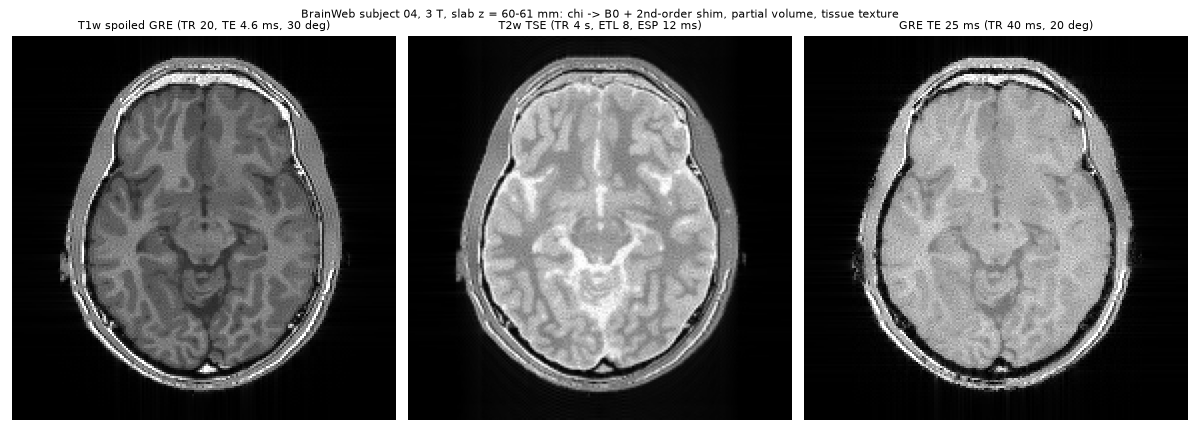
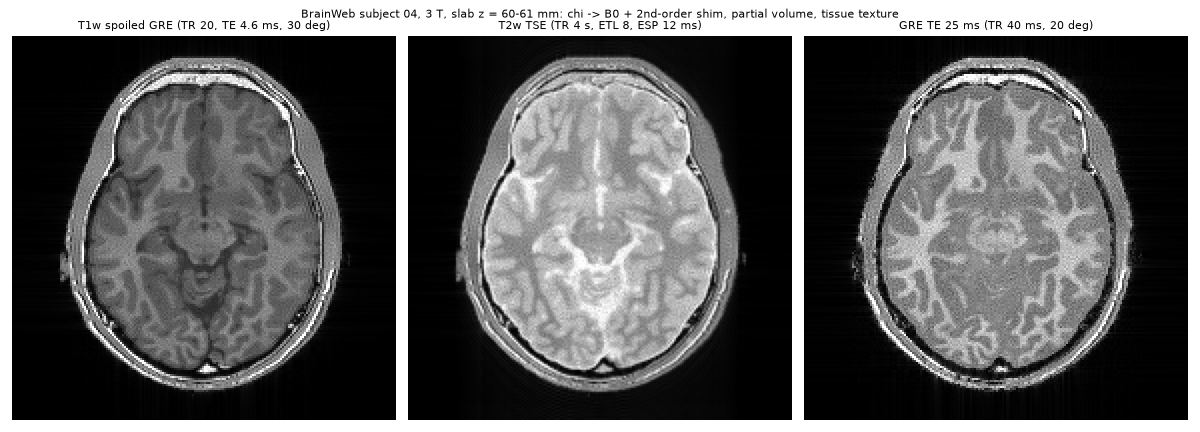
T2* from measured R2* without double counting
estimate_macroscopic_r2prime turns the simulated field's voxel-scale gradient into the rate
a multi-echo R2* fit would see at the measurement's voxel size and echo times; with chi on,
to_phantom now puts only R2' = max(R2* - R2 - macro, 0) on the spins (was: R2' dropped).
Round trip 20.66 /s in -> 20.73 / 20.66 out (double counted 22.5 / 25.5, dropped 16.4 /
19.4). AHEAD measured R2* contrast now appears by default. Follow-up recorded: occipital
WM/GM T2* proxies make cortex dark at long TE.

diff --git a/src/blochparty/anatomy.py b/src/blochparty/anatomy.py
@@ -617,6 +617,39 @@ def anatomy_field_maps(anatomy, table=DEFAULT_TISSUES, field_T=3., *, shim_order
     return FieldMaps(*args,b0=df),FieldMaps(*args,b0=correction)
 
 
+# The R2* measurement a T2* value or map came from (voxel (dz, dy, dx) [m], echo times [s]):
+# the macroscopic part of its decay is estimated at these, not at the simulation grid.
+# Default (table values whose protocols are not encoded): an assumption, 1 mm, 8 echoes 5-40 ms.
+DEFAULT_R2STAR_ACQUISITION = {"voxel": (1e-3, 1e-3, 1e-3), "te": tuple(5e-3 * k for k in range(1, 9))}
+# AHEAD (MP2RAGEME, Caan et al. 2019: second-inversion echoes 3 / 11.5 / 19 / 27.5 ms). Voxel 0.64 mm:
+# the commonly cited AHEAD resolution; the papers say "submillimetre" (unverified here).
+AHEAD_R2STAR_ACQUISITION = {"voxel": (.64e-3, .64e-3, .64e-3), "te": (3e-3, 11.5e-3, 19e-3, 27.5e-3)}
+
+
+def estimate_macroscopic_r2prime(df: Tensor, voxel, acquisition=None) -> Tensor:
+    """The part of a measured R2* that the voxel-scale field ``df`` [Hz] on a (z, y, x) grid of
+    spacing ``voxel`` [m] causes by itself [1/s]: each axis's linear gradient g [Hz/m] dephases a
+    box voxel of the acquisition's size d as |sinc(g d t)| (independent axes multiply), and a
+    log-linear magnitude fit over the acquisition's echo times turns that into a rate, as a
+    multi-echo R2* fit would (Fernandez-Seara & Wehrli, MRM 2000; Yablonskiy, MRM 1998). Gradients
+    are central differences on the grid; |sinc| is floored at 1e-3. Fields resolved finer than the
+    grid, and curvature within the voxel, are not included. Where this alone exceeds the measured
+    R2* - R2 (a field too strong for the stated acquisition), ``to_phantom`` clips R2' at 0."""
+    acq = DEFAULT_R2STAR_ACQUISITION if acquisition is None else acquisition
+    te = torch.as_tensor(acq["te"], dtype=df.dtype)
+    if te.ndim != 1 or len(te) < 2 or (te <= 0).any():
+        raise ValueError("acquisition needs two or more positive echo times")
+    d = _triple(acq["voxel"], "acquisition voxel", True)
+    grads = [torch.gradient(df, spacing=float(h), dim=ax)[0] if df.shape[ax] > 1 else torch.zeros_like(df)
+             for ax, h in enumerate(voxel)]  # a single-voxel axis has no resolved gradient
+    tc = te - te.mean()
+    num = torch.zeros_like(df)
+    for k in range(len(te)):  # sum_k tc_k ln F(t_k), one echo at a time (memory)
+        lnf = sum(torch.sinc(g * di * te[k]).abs().clamp_min(1e-3).log() for g, di in zip(grads, d))
+        num = num + tc[k] * lnf
+    return (-num / tc.square().sum()).clamp_min(0)
+
+
 _VARIABLE = ("t1", "t2", "pd")
 
 
@@ -674,7 +707,7 @@ def to_phantom(anatomy: Anatomy, table=DEFAULT_TISSUES, field_T=3., *, fov_regio
                spins_per_voxel=8, jitter="stratified", seed=0, sampling="per_tissue",
                mt=False, diffusion=False, chi_to_b0=True, shim_order=2,
                t2star="auto", macroscopic_r2prime=None, field_maps=None,
-               variability=None) -> Phantom:
+               variability=None, r2star_acquisition=None) -> Phantom:
     """Assemble independent tissue spins, never average their relaxation constants.
 
     ``per_tissue`` gives K spins to each nonzero tissue/voxel, PD=fraction*PD/K
@@ -686,9 +719,14 @@ def to_phantom(anatomy: Anatomy, table=DEFAULT_TISSUES, field_T=3., *, fov_regio
     PD is per anatomy voxel, matching phantom_from_maps; multiply by physical
     voxel volume when comparing absolute signals across anatomy resolutions.
 
-    ``t2star='auto'`` uses observed T2* only if chi_to_b0=False; with chi fields
-    it omits uncalibrated R2' (a conservative lower bound, not a complete T2*
-    model). ``'table'`` uses R2*=map R2star or tissue table, subtracts R2, and
+    ``t2star='auto'`` (default): with chi fields, ``'separate'``; without, R2' = R2* - R2.
+    ``'separate'``: a measured R2* (map R2star or table T2*) contains R2, microscopic R2'
+    and the dephasing from the voxel-scale field this simulation computes itself; the last is
+    estimated by ``estimate_macroscopic_r2prime`` from the field (tissue + shim) at the voxel size and
+    echo times of the R2* measurement (``r2star_acquisition``, default
+    ``DEFAULT_R2STAR_ACQUISITION``; ``AHEAD_R2STAR_ACQUISITION`` for ``load_ahead``) and
+    subtracted: R2' = max(R2* - R2 - R2'_macro, 0) goes onto the spins, and the simulated field
+    supplies the rest. ``'table'`` uses R2*=map R2star or tissue table, subtracts R2, and
     REQUIRES ``macroscopic_r2prime`` [1/s] when chi is enabled. This is a supplied
     calibration, not a universal linewidth inferred from field gradients.
     Alternatively maps['intrinsic_r2prime'] supplies already separated R2'.
@@ -721,8 +759,12 @@ def to_phantom(anatomy: Anatomy, table=DEFAULT_TISSUES, field_T=3., *, fov_regio
     """
     if sampling not in ("per_tissue","categorical") or jitter not in (None,"stratified"):
         raise ValueError("invalid sampling or jitter mode")
-    if t2star not in ("auto","off","table"):
-        raise ValueError("t2star must be auto, off or table")
+    if t2star not in ("auto","off","table","separate"):
+        raise ValueError("t2star must be auto, separate, off or table")
+    if t2star == "auto":
+        t2star = "separate" if chi_to_b0 else "table"
+    if t2star == "separate" and not chi_to_b0:
+        raise ValueError("t2star='separate' needs chi_to_b0 (the field it separates)")
     if anatomy.map_field_T is not None and field_T != anatomy.map_field_T:
         raise ValueError(f"relaxation maps were acquired at {anatomy.map_field_T} T; no automatic field scaling")
     counts = _subvoxel_counts(spins_per_voxel,3)
@@ -745,9 +787,16 @@ def to_phantom(anatomy: Anatomy, table=DEFAULT_TISSUES, field_T=3., *, fov_regio
     if variability:  # on the full anatomy, so crops and slabs share one realisation
         live = [n for n, p in props.items() if n in anatomy.fractions and p.pd.mean > 0]
         factors = _variability_factors(anatomy, live, variability)
+    macro_est = None
+    if t2star == "separate" and "intrinsic_r2prime" not in anatomy.maps and macroscopic_r2prime is None:
+        if any(tuple(fm.b0.shape) != anatomy.shape for fm in maps_pair):
+            raise ValueError("t2star='separate' needs field maps on the anatomy grid (anatomy_field_maps)")
+        macro_est = estimate_macroscopic_r2prime(sum(fm.b0.to(torch.float64) for fm in maps_pair), anatomy.voxel,
+                                        r2star_acquisition)
     if fov_region is not None:
         anatomy = anatomy.crop(fov_region)
         factors = {key: value[fov_region] for key, value in factors.items()}
+        macro_est = None if macro_est is None else macro_est[fov_region]
     ref = next(iter(anatomy.fractions.values()))
     gen = torch.Generator().manual_seed(seed)
     qgen = torch.Generator().manual_seed(0)
@@ -814,9 +863,12 @@ def to_phantom(anatomy: Anatomy, table=DEFAULT_TISSUES, field_T=3., *, fov_regio
             rate = None
             if "intrinsic_r2prime" in anatomy.maps:
                 rate = anatomy.maps["intrinsic_r2prime"][mask]
-            elif t2star == "table" or not chi_to_b0:
+            elif t2star in ("table", "separate"):
                 rstar = parameter("R2star",1/p.t2star.mean if p.t2star else 1/p.t2.mean)
-                rate = rstar-r2_base-(macro[mask] if isinstance(macro,Tensor) and macro.ndim else macro)
+                if macro_est is not None:  # an estimate: clip, a mismatch is not an inconsistent calibration
+                    rate = (rstar-r2_base-macro_est[mask].to(rstar.dtype)).clamp_min(0)
+                else:
+                    rate = rstar-r2_base-(macro[mask] if isinstance(macro,Tensor) and macro.ndim else macro)
             if rate is not None:
                 if (rate < -1e-6).any():
                     raise ValueError("R2* - R2 - macroscopic R2' is negative; incompatible calibration")

diff --git a/tests/test_anatomy.py b/tests/test_anatomy.py
@@ -158,8 +158,11 @@ def test_t2prime_quantile_fid_and_no_double_count():
     with pytest.raises(ValueError,match="calibration"):
         to_phantom(a,chi_to_b0=True,shim_order=None,t2star="table")
     pair = (bp.FieldMaps((0,0,0),(.001,)*3,b0=torch.zeros(1,1,1,dtype=torch.float64)),)*2
-    no_micro = to_phantom(a,field_maps=pair)
-    assert not no_micro.db0.any()
+    assert not to_phantom(a,field_maps=pair,t2star="off").db0.any()
+    # a flat field has no macroscopic part: 'auto' (= 'separate') puts the whole R2* - R2 on the spins
+    sep = to_phantom(a,field_maps=pair,spins_per_voxel=(1,1,64))
+    full = to_phantom(a,chi_to_b0=False,spins_per_voxel=(1,1,64),t2star="table")
+    assert torch.allclose(sep.db0,full.db0)
     a.maps["intrinsic_r2prime"] = torch.full((1,1,1),8.,dtype=torch.float64)
     micro = to_phantom(a,field_maps=pair)
     assert micro.db0.abs().max() > 0
@@ -299,3 +302,38 @@ def test_float64_resampling_keeps_fractions_valid():
         for k in a.fractions:
             assert float(r.fractions[k].sum()) * math.prod(voxel) == pytest.approx(
                 float(a.fractions[k].sum()) * .0005**3, rel=1e-6)
+
+
+@pytest.mark.parametrize("grad_hz_per_mm", [5.0, 8.0, 15.0])
+def test_measured_r2star_round_trip_without_double_counting(grad_hz_per_mm):
+    # A tissue whose table T2* came from a 1 mm, 5-40 ms multi-echo fit, in a voxel-scale field
+    # gradient: the assembled phantom (microscopic R2' on the spins + the field at their positions)
+    # must give back that measured R2* when "acquired" the same way. Without the separation the
+    # field is counted twice ('table' with no macroscopic term); dropping R2' ('off') undercounts.
+    from blochparty.anatomy import DEFAULT_R2STAR_ACQUISITION, estimate_macroscopic_r2prime
+    g = grad_hz_per_mm * 1e3  # Hz/m along x
+    a = Anatomy({"wm": torch.ones(3, 3, 3, dtype=torch.float64)}, (.001,)*3, (-.001, -.001, -.001))
+    x = torch.arange(3, dtype=torch.float64)[None, None, :].expand(3, 3, 3) * .001 - .001
+    pair = (bp.FieldMaps(a.origin, (.001,)*3, b0=g * x), bp.FieldMaps(a.origin, (.001,)*3, b0=torch.zeros(3, 3, 3, dtype=torch.float64)))
+    te = torch.tensor(DEFAULT_R2STAR_ACQUISITION["te"], dtype=torch.float64)
+    est = estimate_macroscopic_r2prime(pair[0].b0, a.voxel)
+    r2s_in = 1 / DEFAULT_TISSUES[3]["wm"].t2star.mean
+
+    def measured(t2star, **kw):
+        ph = to_phantom(a, field_maps=pair, spins_per_voxel=(1, 1, 8192), t2star=t2star,
+                        fov_region=(slice(1, 2),)*3, **kw)
+        sig = torch.exp(-te[:, None] / ph.t2 - 2j * math.pi * te[:, None] * ph.db0) @ ph.pd.to(torch.complex128)
+        y = sig.abs().log()
+        tc = te - te.mean()
+        return float(-(tc * (y - y.mean())).sum() / tc.square().sum())
+
+    sinc_rate = float(-(torch.sinc(g * .001 * te).abs().log() * (te - te.mean())).sum() / (te - te.mean()).square().sum())
+    assert float(est[1, 1, 1]) == pytest.approx(sinc_rate, rel=1e-9)  # the estimator is the closed form
+    out = measured("auto")
+    r2 = 1 / DEFAULT_TISSUES[3]["wm"].t2.mean
+    if sinc_rate < r2s_in - r2:  # consistent: 1.9 and 4.9 /s of the 6.2 /s R2* - R2
+        assert out == pytest.approx(r2s_in, rel=0.02), (out, r2s_in)
+        assert measured("table", macroscopic_r2prime=0.0) > r2s_in + 0.5 * sinc_rate  # double counted
+        assert measured("off") < r2s_in - 1.0  # microscopic R2' lost
+    else:  # 15 Hz/mm alone dephases faster (19 /s) than the measured R2*: R2' clips at 0
+        assert out == pytest.approx(measured("off"), rel=1e-12) and out > r2s_in

diff --git a/validation/anatomy_ahead.py b/validation/anatomy_ahead.py
@@ -9,8 +9,8 @@ Checks (printed; recorded in validation/anatomy/RESULTS.md):
   tenths of a ppm positive (iron), which fixes ppm against ppb.
 * geometry: the brain centroid in MNI2009b coordinates and the MNI origin inside the brain.
 * a 7 T spoiled GRE of an axial slab through the basal ganglia from the measured R1 / R2* /
-  relative PD maps, with the QSM-derived field (brain only, relative); T2 an explicit assumption and
-  R2' = R2* - R2 (32 Cauchy-quantile spins per voxel).
+  relative PD maps, with the QSM-derived field (brain only, relative); T2 an explicit assumption; the
+  default T2* policy separates microscopic R2' from the field's own dephasing (32 spins per voxel).
 
     uv run python validation/anatomy/fetch_ahead.py && uv run python validation/anatomy_ahead.py
 """
@@ -24,7 +24,7 @@ import numpy as np
 import torch
 
 import blochparty as bp
-from blochparty.anatomy import Distribution, TissueProperties
+from blochparty.anatomy import AHEAD_R2STAR_ACQUISITION, Distribution, TissueProperties
 
 ROOT = Path(__file__).resolve().parent / "anatomy" / "data" / "ahead"
 
@@ -70,9 +70,14 @@ def main():
                                             t2=Distribution(0.05, None, note, True),
                                             chi=Distribution(0.0, None, "Assumption: QSM map used", True))}}
     k0 = int(round((0 - a.origin[2]) / a.voxel[0]))
-    # R2' = R2* - R2 from the measured R2* map and the assumed T2 (clamped at 0 where R2* < R2,
-    # e.g. CSF). Assumption: the brain-only QSM field adds little macroscopic dephasing on top.
-    a.maps["intrinsic_r2prime"] = torch.where(m, (a.maps["R2star"] - 1 / 0.05).clamp_min(0), 0.0)
+    # the default T2* policy separates the measured R2* into R2 (assumed T2), the macroscopic part
+    # the QSM field causes at AHEAD's acquisition (0.64 mm, TE 3-27.5 ms), and microscopic R2'
+    fields = bp.anatomy_field_maps(a, table, 7.0, shim_order=2)
+    macro = bp.estimate_macroscopic_r2prime(sum(fm.b0.double() for fm in fields), a.voxel,
+                                            AHEAD_R2STAR_ACQUISITION)[m].numpy()
+    total = (a.maps["R2star"][m] - 1 / 0.05).clamp_min(0).numpy()
+    print(f"macroscopic part of R2* - R2 at the AHEAD acquisition: median {np.median(macro):.2f} /s, 99th "
+          f"percentile {np.percentile(macro, 99):.1f} /s (R2* - R2 median {np.median(total):.1f} /s)")
     import matplotlib
 
     matplotlib.use("Agg")
@@ -83,7 +88,8 @@ def main():
     ax[0].set_title("AHEAD QSM [ppm], z = 0 (MNI)")
     for j, (te, label) in enumerate(((5e-3, "TE 5 ms"), (20e-3, "TE 20 ms"))):
         ph = bp.to_phantom(a, table, 7.0, fov_region=(slice(k0, k0 + 2), slice(None), slice(None)),
-                           spins_per_voxel=(2, 4, 4), shim_order=2)
+                           spins_per_voxel=(2, 4, 4), shim_order=2, field_maps=fields,
+                           r2star_acquisition=AHEAD_R2STAR_ACQUISITION)
         ph.pos = ph.pos - ph.pos.mean(0)
         seq = bp.gre_2d(192, 0.24, flip_deg=15.0, tr=30e-3, te=te, n_dummy=40)
         try:

diff --git a/src/blochparty/__init__.py b/src/blochparty/__init__.py
@@ -2,7 +2,7 @@
 
 from . import design, epg, exchange, fused, reference
 from .anatomy import (Anatomy, BRAINWEB_TISSUES, DEFAULT_TISSUES, Distribution, TissueProperties,
-                      anatomy_field_maps, gaussian_random_field, load_ahead, load_brainweb, load_qsm2,
+                      anatomy_field_maps, gaussian_random_field, load_ahead, estimate_macroscopic_r2prime, load_brainweb, load_qsm2,
                       to_phantom)
 from .bloch import SimResult, simulate
 from .builders import (bssfp_2d, cartesian_kspace, cartesian_recon, epi_2d, gre_2d, gre_3d, gre_cartesian,
@@ -23,7 +23,7 @@ from .susceptibility import shim, susceptibility_to_b0
 
 __all__ = [
     "Anatomy", "BRAINWEB_TISSUES", "DEFAULT_TISSUES", "Distribution", "TissueProperties",
-    "anatomy_field_maps", "gaussian_random_field", "load_ahead", "load_brainweb", "load_qsm2", "to_phantom",
+    "anatomy_field_maps", "gaussian_random_field", "load_ahead", "estimate_macroscopic_r2prime", "load_brainweb", "load_qsm2", "to_phantom",
     "GAMMA_BAR", "BoundPool", "ExchangePool", "FieldMaps", "Motion", "Phantom", "Restriction", "Sequence", "SequenceBuilder", "SimResult", "System", "add_noise", "b0_cylinder",
     "b0_shim", "b0_sphere", "birdcage_b1", "birdcage_sensitivities", "block_pulse", "bssfp_2d",
     "cartesian_kspace", "cartesian_recon", "coil_combine", "design", "epg", "epi_2d", "exchange", "fused",

diff --git a/validation/anatomy/RESULTS.md b/validation/anatomy/RESULTS.md
@@ -171,3 +171,26 @@ BrainWeb subject 04, 3 T, 2 mm axial slab (z = 60-61 mm), full-head chi -> B0 (-
 +479 Hz) with 2nd-order shim, 8 spins per tissue and voxel (1,859,776 spins), texture 5 / 5 / 2 %
 at 1 cm. Apple M4 GPU: setup 16.4 s, T1w spoiled GRE 7.7 s, T2w TSE (ETL 8, ESP 12 ms) 11.4 s,
 long-TE GRE 8.2 s; 44.2 s in total.
+
+## T2* from measured R2* without double counting (2026-10-07)
+
+`tests/test_anatomy.py::test_measured_r2star_round_trip_without_double_counting`: a WM voxel
+(table T2* 48.4 ms, R2* 20.66 /s) in a linear field gradient, "acquired" as its T2* was (1 mm,
+8 echoes 5-40 ms, log-linear magnitude fit) with 8192 spins:
+
+| gradient | separated (default) | field counted twice ('table', no macro term) | R2' dropped (old default) |
+|---|---:|---:|---:|
+| 5 Hz/mm (macro 1.9 /s) | 20.73 /s | 22.52 /s | 16.37 /s |
+| 8 Hz/mm (macro 4.9 /s) | 20.66 /s | 25.54 /s | 19.39 /s |
+
+At 15 Hz/mm the field alone (19 /s) exceeds R2* - R2 (6.2 /s): R2' clips at 0, as documented.
+The estimator equals the closed-form sinc fit to 1e-9. BrainWeb, 3 T, 1 mm: the macroscopic part
+inside the brain is small except near air (median 0.07, 90th 0.41, 99th percentile 3.1 /s, max
+255 /s); 0.38 % of brain voxels clip. AHEAD (brain-only relative QSM, 0.64 mm, 3-27.5 ms): median
+0.00, 99th percentile 0.1 /s, so the measured R2* contrast now appears without manual R2' (figure
+above, regenerated).
+
+Known issue (flagged in the table, follow-up on the roadmap): the 3 T WM/GM T2* proxies are
+occipital values (Wansapura 1999: GM 41.6 < WM 48.4 ms), so long-TE GRE now shows cortex darker
+than white matter; whole-brain cortical T2* is reported longer than WM (Hoogenraad/Peters et al.
+2007, values not yet verified from the paper).

diff --git a/ROADMAP.md b/ROADMAP.md
@@ -478,7 +478,7 @@ by Pulseq's own checks.
 - [x] Anatomy M4: within-tissue texture (`variability`), statistics tested.
 - [x] Anatomy M5: `examples/anatomy_brain.py` (3 T BrainWeb: T1w GRE, T2w TSE, long-TE GRE) and
       `validation/anatomy_ahead.py` (7 T measured maps).
-- [ ] **T2* from measured R2* without double counting** (next physics item): a measured R2*
+- [x] **T2* from measured R2* without double counting** (2026-10-07; `t2star="separate"`, the default with chi): a measured R2*
       contains the macroscopic dephasing from the voxel-scale susceptibility field that the
       simulation now computes itself, plus microscopic R2' (vessels, myelin, iron) that it
       does not. Today `t2star="auto"` drops R2' when chi is on, so measured R2* contrast vanishes
@@ -487,6 +487,9 @@ by Pulseq's own checks.
       Yablonskiy/Fernandez-Seara) at the acquisition's voxel size and TE range, subtract it to
       get microscopic R2' per voxel, and make that the default; check against a multi-echo GRE
       of the same anatomy (simulated R2* fit vs the input map) and the static-dephasing limit.
+      Done: round trip within 0.3 % (vs +9 to +24 % double counted, -6 to -21 % dropped).
+- [ ] 3 T WM/GM T2* in the tissue table: replace the occipital Wansapura proxies (GM < WM) with
+      whole-brain values (Hoogenraad/Peters 2007 reports cortical GM longer than WM; verify numbers).
 - [ ] Further realistic phantoms: XCAT / MRXCAT; random augmentations
       (generative plan: [docs/PHANTOMS.md](docs/PHANTOMS.md))
 - [ ] Raw k-space from reconstructed scans ("lift", PHANTOMS §5), validated on paired raw/DICOM data

diff --git a/validation/anatomy/README.md b/validation/anatomy/README.md
@@ -127,12 +127,14 @@ dark. The 1.5 T CSF T2 is the 3 T value, flagged.
 `BRAINWEB_TISSUES` separately preserves the older simulator's 1.5 T relaxation
 priors for reference comparisons. Existing `phantom.TISSUES` is untouched.
 
-Observed T2* may include macroscopic dephasing. Default `t2star="auto"` adds table
-T2′ only when susceptibility is disabled. With susceptibility enabled it omits
-uncalibrated microscopic broadening; this is a lower-bound model, not complete T2*.
-`t2star="table"` plus susceptibility requires a supplied `macroscopic_r2prime`
-calibration in 1/s. Alternatively supply `maps["intrinsic_r2prime"]` with an already
-separated rate. No universal subtraction is inferred from a spatial gradient.
+A measured T2* (map or table) contains R2, microscopic R2' (vessels, myelin, iron) and the
+dephasing that the voxel-scale field causes, which the simulation computes itself from chi. The
+default `t2star="auto"` (= `"separate"` with chi on) estimates that last part from the simulated
+field's gradient at the voxel size and echo times of the R2* measurement
+(`estimate_macroscopic_r2prime`; `r2star_acquisition`, default 1 mm and 5-40 ms, an assumption for
+table values; `AHEAD_R2STAR_ACQUISITION` for AHEAD) and puts only R2' = max(R2* - R2 - macro, 0) on
+the spins. Without chi, R2' = R2* - R2. `t2star="table"` with chi still accepts a supplied
+`macroscopic_r2prime`, and `maps["intrinsic_r2prime"]` an already separated rate.
 `t2star="off"` disables that broadening. Cauchy quantiles need many spins to resolve
 an FID; K=1 has only the zero median and emits a warning for finite requested T2′.
 

diff --git a/docs/JOURNAL.md b/docs/JOURNAL.md
@@ -663,3 +663,16 @@ entries at the bottom. Hard-won technical lessons are distilled separately in
   one" (cumulative-sum rounding ~1e-14 vs a 3.6e-15 check). Renormalisation after resampling;
   regression test reproduces 1.2e-14 / 2.9e-14 overshoot without it.
 - Roadmap: T2* from measured R2* without double counting, as the next physics item.
+
+## 2026-10-07 — T2* from measured R2* without double counting
+
+- `estimate_macroscopic_r2prime`: per-voxel |sinc(g d t)| from the simulated field's gradient at
+  the R2* measurement's voxel size, log-linear fit over its echo times; `to_phantom(t2star="auto")`
+  now separates R2' = max(R2* - R2 - macro, 0) when chi is on (was: R2' dropped). Defaults for
+  table values 1 mm / 5-40 ms (assumption); AHEAD 0.64 mm / 3-27.5 ms (Caan 2019 TEs).
+- Round trip: 20.66 /s in, 20.73 / 20.66 out at 5 / 8 Hz/mm; double counted 22.52 / 25.54, dropped
+  16.37 / 19.39. Inconsistent case (15 Hz/mm) clips by design. Fixed along the way: a function name
+  shadowed by the existing `macroscopic_r2prime` argument; single-voxel axes in the gradient.
+- AHEAD: macroscopic part ~0 (brain-only QSM), so measured R2* contrast now appears by default.
+  BrainWeb: small except near air (99th pct 3.1 /s). New visible issue: cortex darker than WM at
+  long TE from the occipital T2* proxies; roadmap follow-up.

diff --git a/docs/LESSONS.md b/docs/LESSONS.md
@@ -311,6 +311,13 @@ says where it came from so it can be re-checked.
   per class, so BrainWeb at 1.5 mm in float64 raised "fractions sum to more than one" (float32
   hid it: its tolerance is 2e-6). Renormalise by max(total, 1) after resampling.
 
+- **A measured T2* is not an intrinsic property once the simulation computes fields**: it
+  includes the macroscopic dephasing at the measurement's voxel size and echo times. Separating it
+  needs those acquisition parameters (AHEAD: MP2RAGEME, TE 3/11.5/19/27.5 ms); the round trip
+  (simulate the acquisition, fit R2*, compare with the input) is the test, and a field strong
+  enough to exceed R2* - R2 on its own means the inputs disagree (clip, do not error). Fixing it
+  exposed the next issue at once: the occipital WM/GM T2* proxies make cortex dark at long TE.
+
 ## Other simulators
 
 - **MRzero**: RF is instantaneous; numerics are float32 (limits agreement to ~1e-5–4e-4 on
